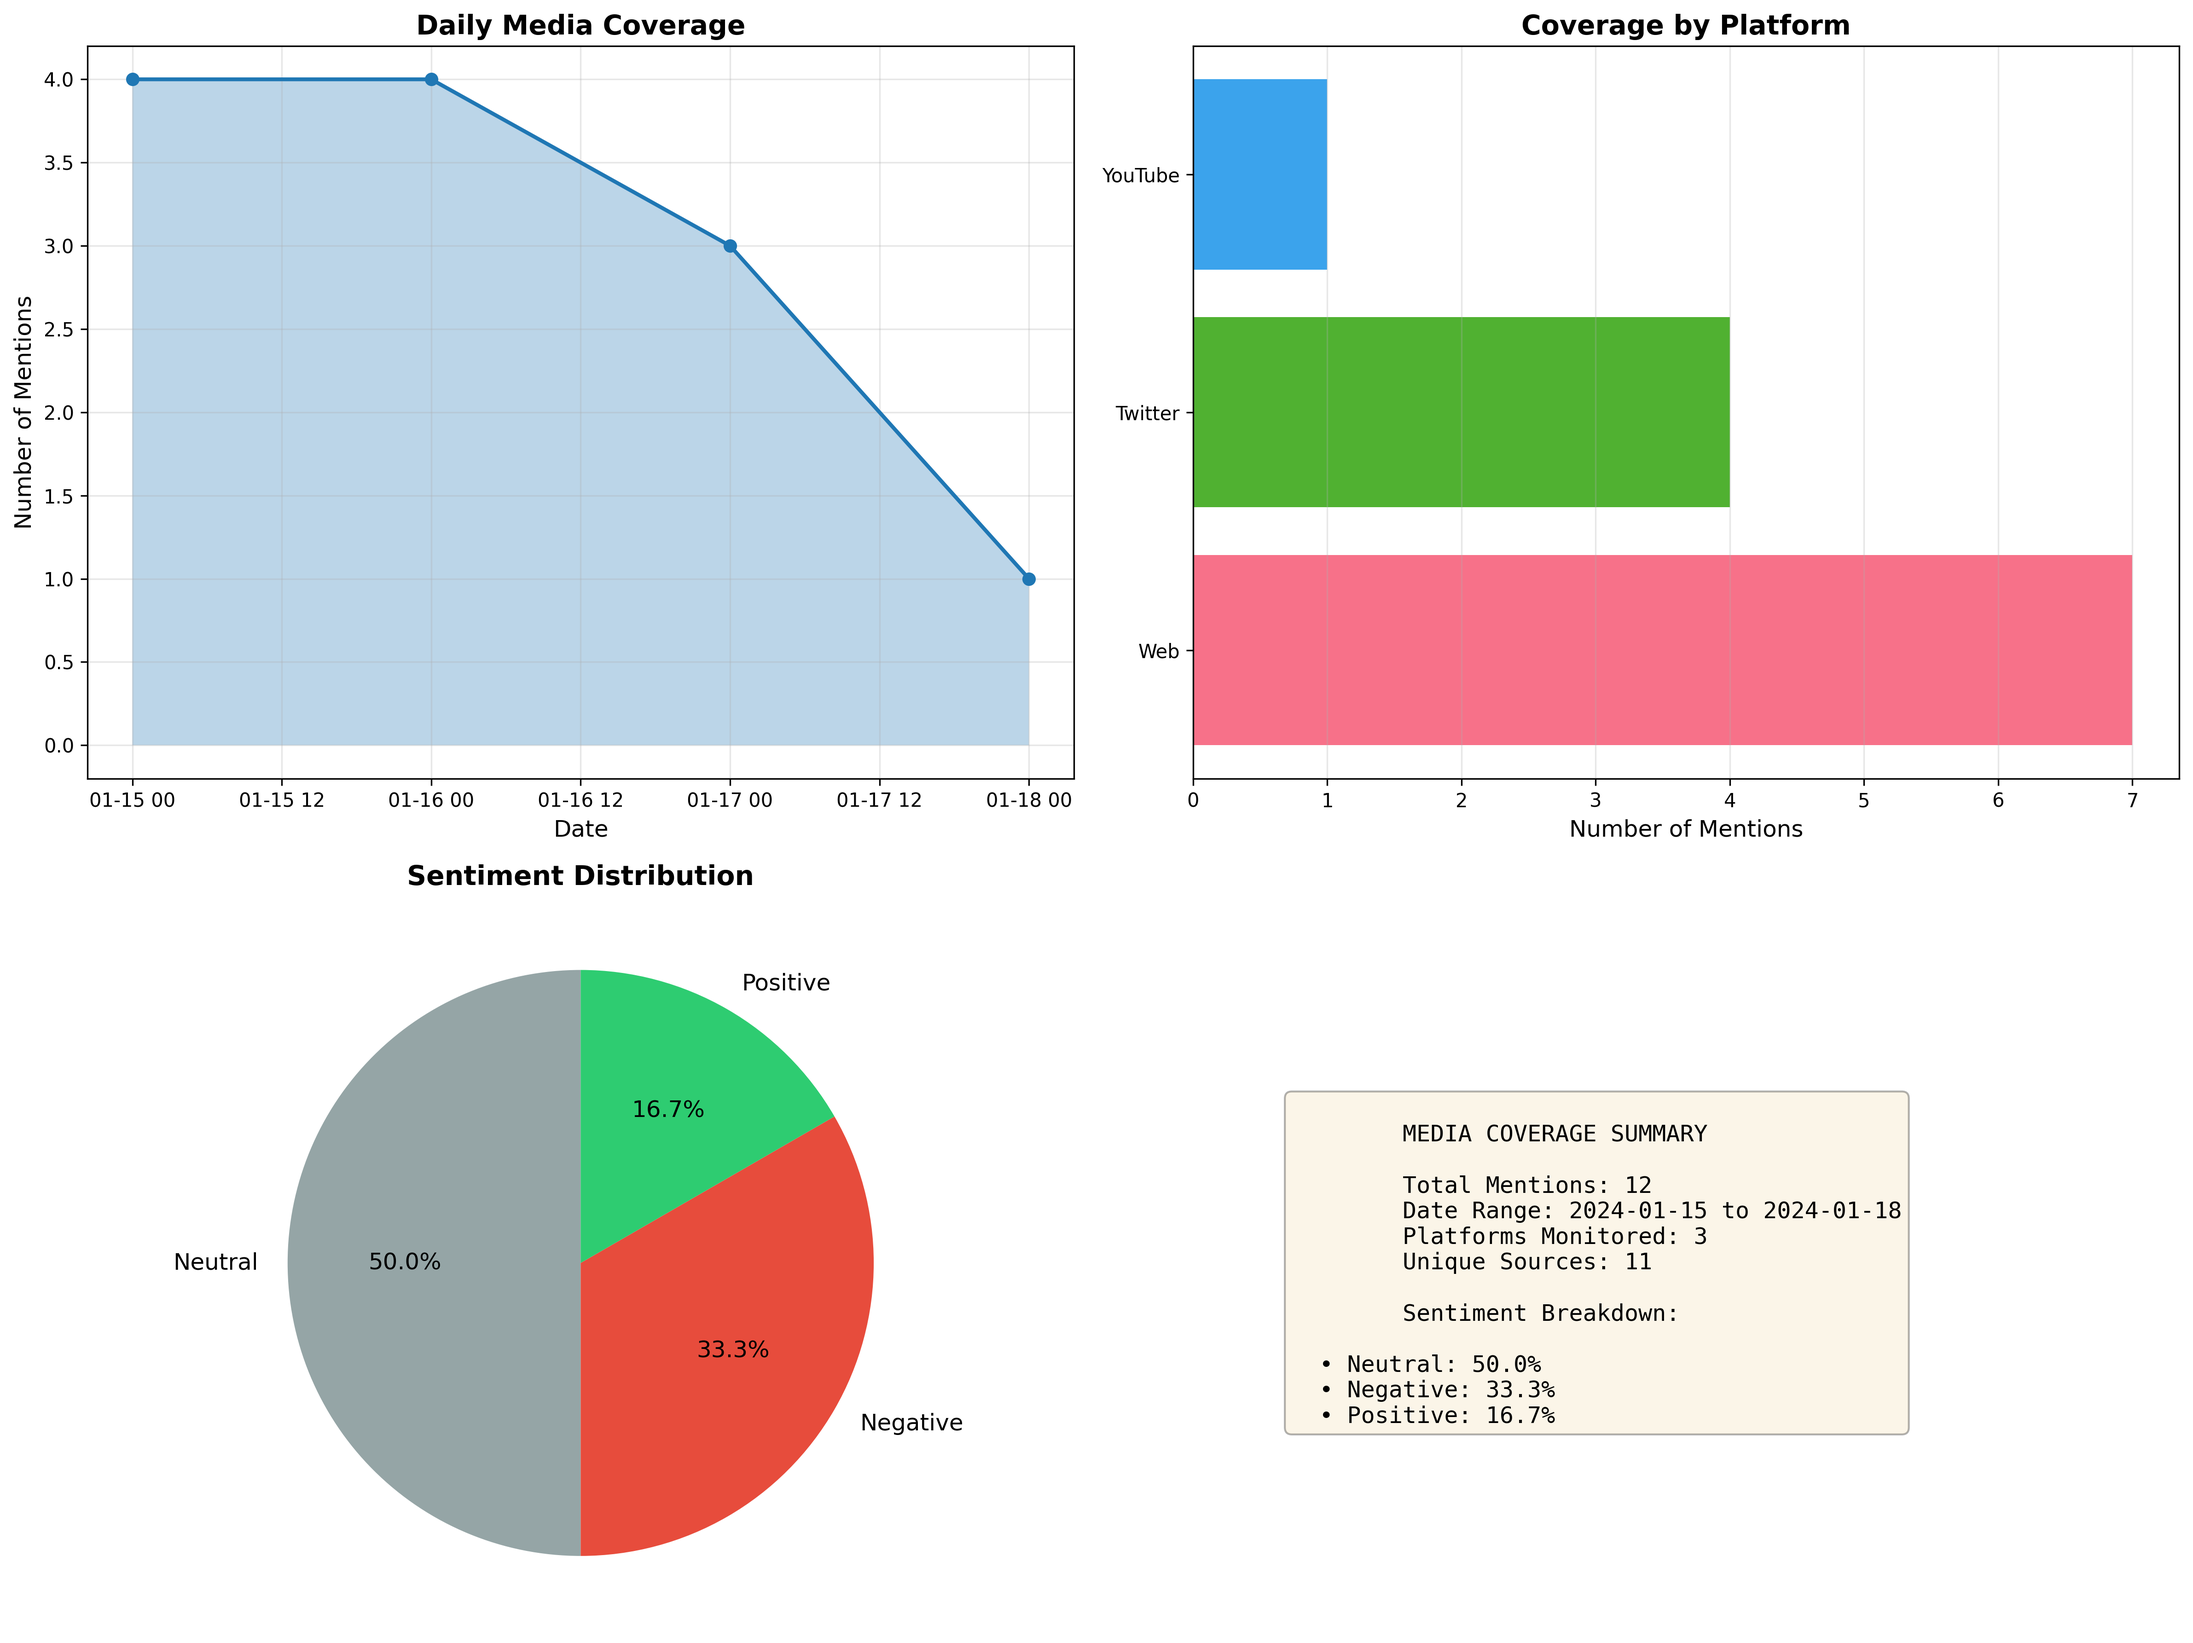
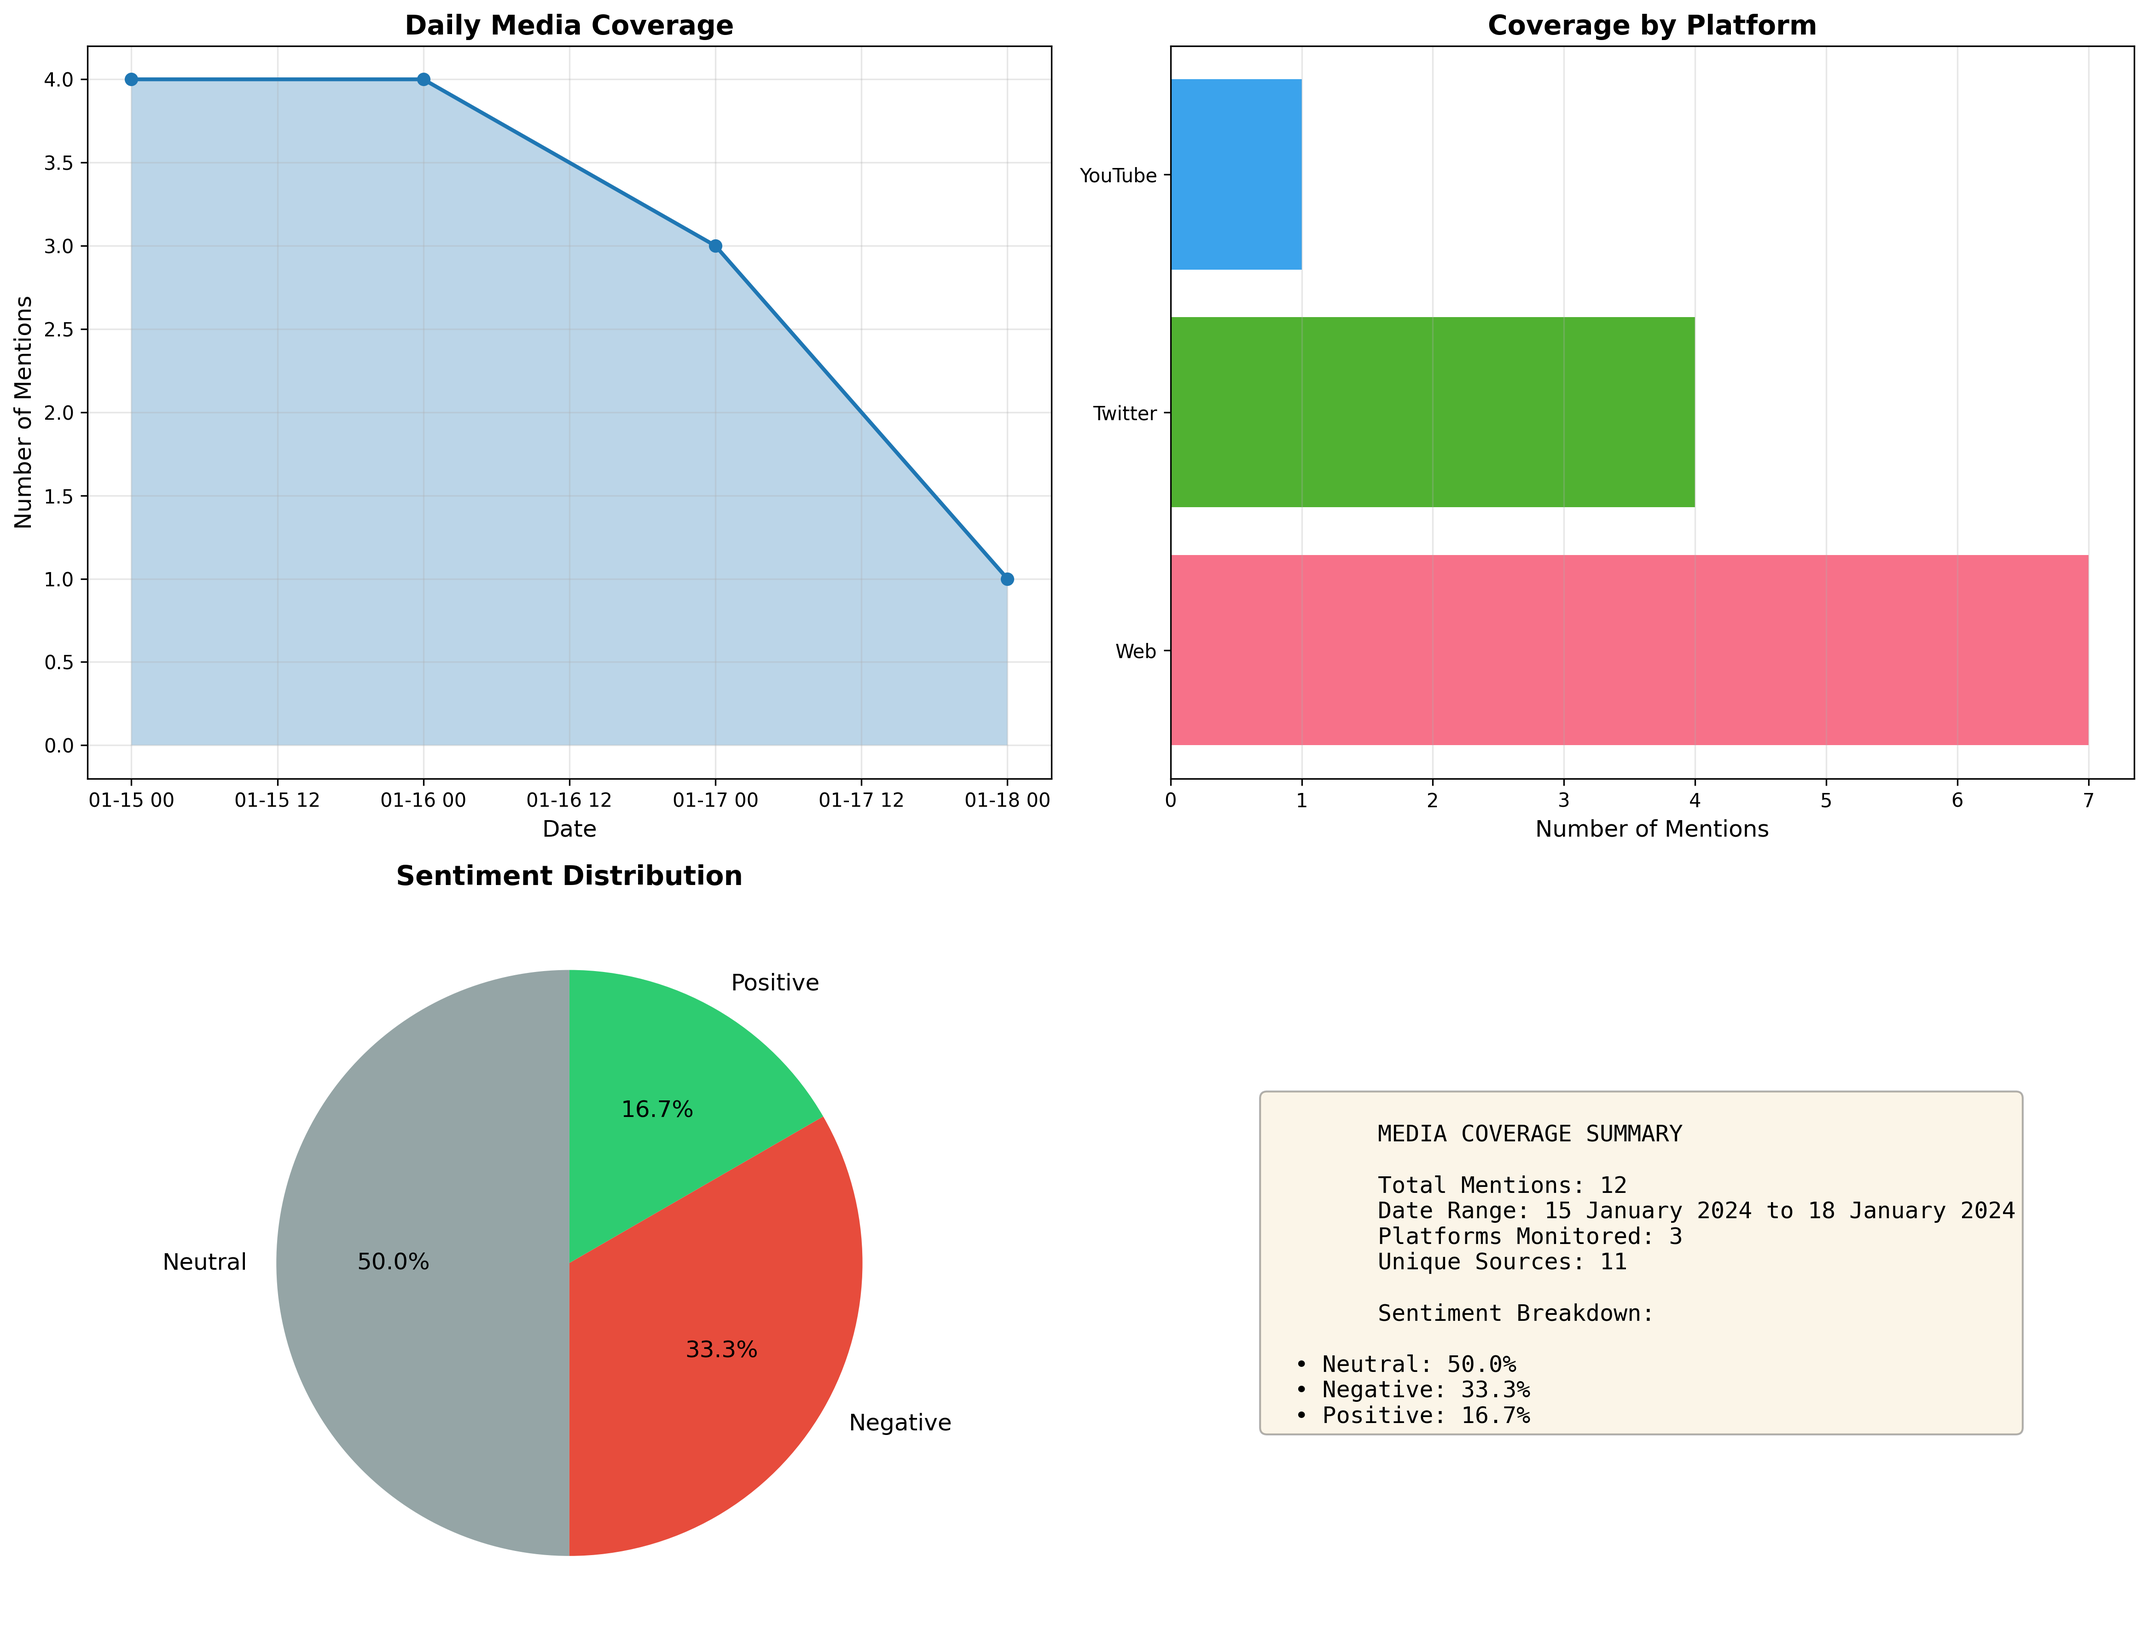
Update date formats to British English in reports and templates; enhance date parsing in scripts

diff --git a/tools/sentiment_analyzer.py b/tools/sentiment_analyzer.py
@@ -31,7 +31,8 @@ class SentimentAnalyzer:
     
     def _preprocess(self):
         """Preprocess data: convert dates, clean text."""
-        self.data['Date'] = pd.to_datetime(self.data['Date'])
+        # Handle both formats: "DD Month YYYY" and "YYYY-MM-DD"
+        self.data['Date'] = pd.to_datetime(self.data['Date'], format='mixed')
         self.data = self.data.sort_values('Date')
         
     def get_daily_comment_volume(self):
@@ -150,7 +151,7 @@ class SentimentAnalyzer:
     def generate_summary_stats(self):
         """Generate summary statistics."""
         total_comments = len(self.data)
-        date_range = f"{self.data['Date'].min().strftime('%Y-%m-%d')} to {self.data['Date'].max().strftime('%Y-%m-%d')}"
+        date_range = f"{self.data['Date'].min().strftime('%d %B %Y')} to {self.data['Date'].max().strftime('%d %B %Y')}"
         platforms = self.data['Platform'].nunique()
         categories = self.data['Category'].nunique()
         
@@ -215,25 +216,3 @@ class SentimentAnalyzer:
         print(f"Report saved to {output_path}")
         
         return fig
-
-
-# Example usage
-if __name__ == "__main__":
-    # Example: Load data and generate report
-    analyzer = SentimentAnalyzer('templates/comments_template.csv')
-    
-    # Print summary
-    print("=== Comment Analysis Summary ===")
-    summary = analyzer.generate_summary_stats()
-    for key, value in summary.items():
-        print(f"{key}: {value}")
-    
-    # Identify spikes
-    spikes = analyzer.identify_spikes()
-    if len(spikes) > 0:
-        print("\n=== Volume Spikes Detected ===")
-        for date, volume in spikes.items():
-            print(f"{date.strftime('%Y-%m-%d')}: {volume} comments")
-    
-    # Generate visual report
-    analyzer.export_report('sentiment_analysis_report.png')

diff --git a/tools/media_tracker.py b/tools/media_tracker.py
@@ -31,7 +31,8 @@ class MediaTracker:
     
     def _preprocess(self):
         """Preprocess data: convert dates, clean text."""
-        self.data['Date'] = pd.to_datetime(self.data['Date'])
+        # Handle both formats: "DD Month YYYY" and "YYYY-MM-DD"
+        self.data['Date'] = pd.to_datetime(self.data['Date'], format='mixed')
         self.data = self.data.sort_values('Date')
         
     def get_daily_summary(self):
@@ -108,7 +109,7 @@ class MediaTracker:
     def generate_summary_stats(self):
         """Generate summary statistics."""
         total_mentions = len(self.data)
-        date_range = f"{self.data['Date'].min().strftime('%Y-%m-%d')} to {self.data['Date'].max().strftime('%Y-%m-%d')}"
+        date_range = f"{self.data['Date'].min().strftime('%d %B %Y')} to {self.data['Date'].max().strftime('%d %B %Y')}"
         platforms = self.data['Platform'].nunique()
         sources = self.data['Source'].nunique()
         
@@ -166,18 +167,3 @@ class MediaTracker:
         print(f"Report saved to {output_path}")
         
         return fig
-
-
-# Example usage
-if __name__ == "__main__":
-    # Example: Load data and generate report
-    tracker = MediaTracker('templates/media_coverage_template.csv')
-    
-    # Print summary
-    print("=== Media Coverage Summary ===")
-    summary = tracker.generate_summary_stats()
-    for key, value in summary.items():
-        print(f"{key}: {value}")
-    
-    # Generate visual report
-    tracker.export_report('media_coverage_report.png')

diff --git a/tools/crisis_report_generator.py b/tools/crisis_report_generator.py
@@ -31,8 +31,8 @@ class CrisisReportGenerator:
             crisis_date: Date of crisis onset (defaults to today)
         """
         self.crisis_name = crisis_name
-        self.crisis_date = crisis_date or datetime.now().strftime('%Y-%m-%d')
-        self.report_date = datetime.now().strftime('%B %d, %Y')
+        self.crisis_date = crisis_date or datetime.now().strftime('%d %B %Y')
+        self.report_date = datetime.now().strftime('%d %B %Y')
         
         # Load and preprocess data
         self.media_data = self._load_and_prep_media(media_file)
@@ -44,14 +44,16 @@ class CrisisReportGenerator:
     def _load_and_prep_media(self, file_path):
         """Load and preprocess media data."""
         data = pd.read_csv(file_path) if file_path.endswith('.csv') else pd.read_excel(file_path)
-        data['Date'] = pd.to_datetime(data['Date'])
+        # Handle both formats: "DD Month YYYY" and "YYYY-MM-DD"
+        data['Date'] = pd.to_datetime(data['Date'], format='mixed')
         data = data.sort_values('Date')
         return data
     
     def _load_and_prep_comments(self, file_path):
         """Load and preprocess comments data."""
         data = pd.read_csv(file_path) if file_path.endswith('.csv') else pd.read_excel(file_path)
-        data['Date'] = pd.to_datetime(data['Date'])
+        # Handle both formats: "DD Month YYYY" and "YYYY-MM-DD"
+        data['Date'] = pd.to_datetime(data['Date'], format='mixed')
         data = data.sort_values('Date')
         return data
     

diff --git a/generate_examples_updated.py b/generate_examples_updated.py
@@ -78,7 +78,7 @@ def main():
             media_file=str(media_file),
             comments_file=str(comments_file),
             crisis_name='Data Security Incident',
-            crisis_date='2024-01-15'
+            crisis_date='15 January 2024'
         )
         pdf_output = output_dir / "crisis_report.pdf"
         crisis_report.generate_pdf_report(str(pdf_output))

diff --git a/tools/README.md b/tools/README.md
@@ -110,7 +110,7 @@ print(report.generate_quick_summary())
 3. Run reports as needed (typically daily for morning briefings)
 
 **Required fields for media coverage:**
-- `Date`: Publication date (DD-MM-YYYY)
+- `Date`: Publication date (format: DD Month YYYY, e.g., 15 January 2024)
 - `Source`: Media outlet name
 - `Platform`: Web, Twitter, Facebook, etc.
 - `URL`: Link to article/post
@@ -118,7 +118,7 @@ print(report.generate_quick_summary())
 - `Category`: Custom categories for your situation
 
 **Required fields for comments:**
-- `Date`: Comment date (DD-MM-YYYY)
+- `Date`: Comment date (format: DD Month YYYY, e.g., 15 January 2024)
 - `Platform`: Social platform
 - `Category`: Comment type (Complaint, Question, etc.)
 - `Sentiment`: Positive, Neutral, or Negative
@@ -195,8 +195,9 @@ spikes = analyzer.identify_spikes(threshold_multiplier=1.5)
 - Use absolute paths if relative paths don't work
 
 **Dates not parsing:**
-- Ensure date format is YYYY-MM-DD
+- Ensure date format is DD Month YYYY (e.g., 15 January 2024)
 - Check for empty date cells
+- The tools accept both DD Month YYYY and YYYY-MM-DD formats
 
 **Missing sentiment values:**
 - All records must have Positive, Neutral, or Negative sentiment
